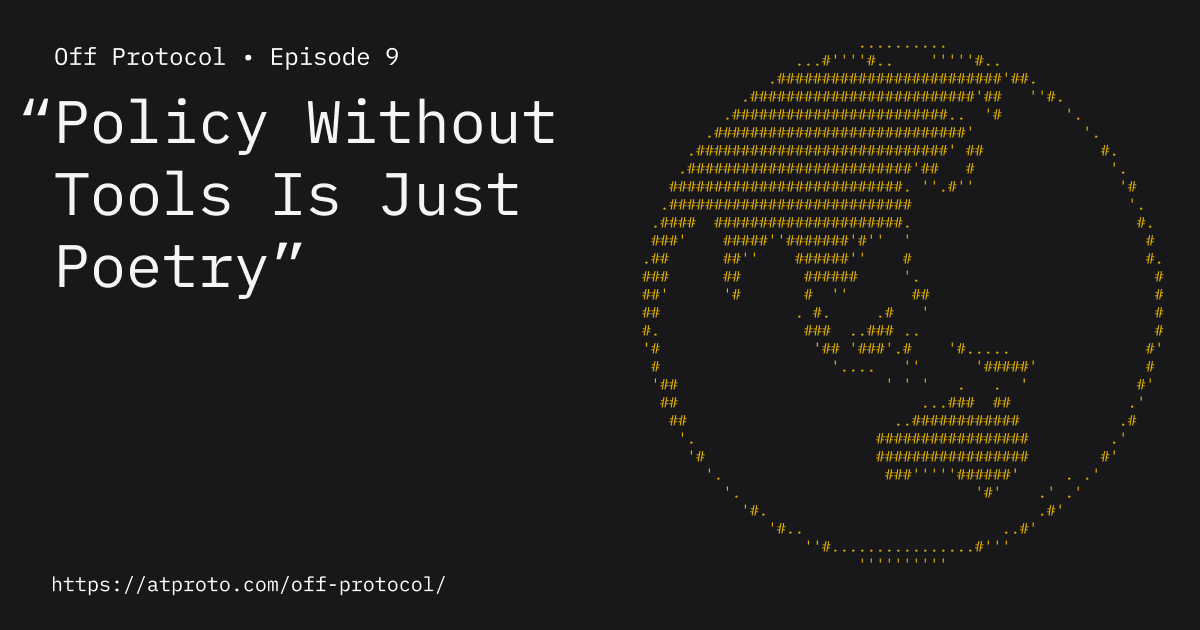
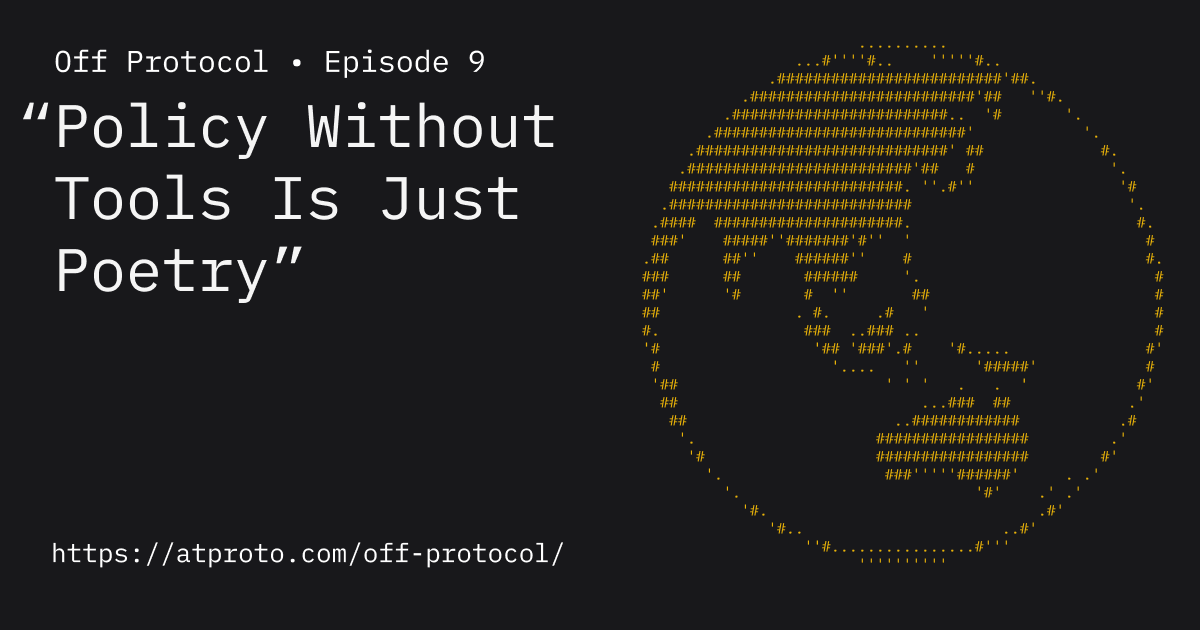
Podcast cleanup (#696)
* Updated og img for roost ep

* Updated RSS email

* Added off protocol og images

Pull request: Podcast cleanup
- **Updated og img for roost ep**
- **Updated RSS email**

diff --git a/src/lib/episodes.ts b/src/lib/episodes.ts
@@ -82,7 +82,7 @@ export const SHOW: ShowMeta = {
   description: 'Conversations about AT Protocol and the open social web with the people working to build a better internet. Brought to you by the Bluesky DevRel team.',
   author: 'Bluesky DevRel',
   defaultHost: 'Jim Ray',
-  ownerEmail: '[email redacted]',
+  ownerEmail: '[email redacted]',
   language: 'en-US',
   category: 'Technology',
   coverImage: 'https://media.atproto.com/off-protocol/off-protocol-cover.png',